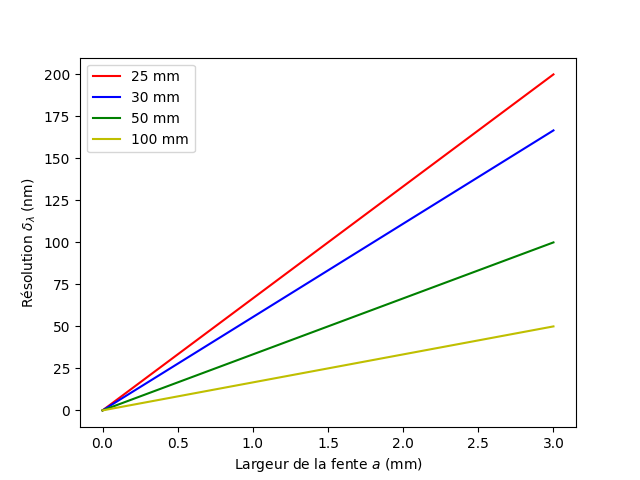
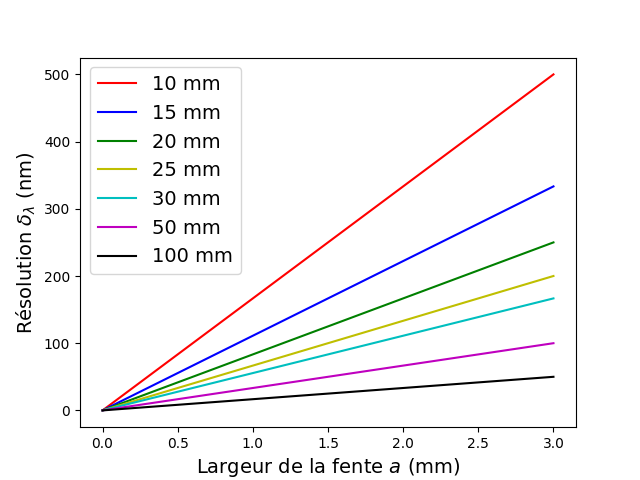
graphique resolution

diff --git a/travail_prep_spectro/rapport_imrad.tex b/travail_prep_spectro/rapport_imrad.tex
@@ -126,7 +126,7 @@ Le système optique du spectromètre est schématisé dans la figure \ref{4f}.
 \begin{figure}[H]
     \centering
     \includegraphics[scale=0.4]{4f.png}
-    \caption{Schéma simplifié du spectromètre avec toutes ses composantes. \label{4f} \cite{procedurier}}
+    \caption{Schéma simplifié du spectromètre avec toutes ses composantes \cite{procedurier}. \label{4f}}
 \end{figure}
 
 Le parcours d'un faisceau passant à travers le spectromètre a été simulé à l'aide 
@@ -213,7 +213,7 @@ soit d'une largeur équivalente ou légèrement inférieure à la largeur de la 
 $x(\lambda_{bleu})-x(\lambda_{rouge})\leq D_{cam}$. On a pu approximer que $x(\lambda)$ correspond au terme de décalage
 de la fonction $rect$ en $x$. Les dimensions de la caméra utilisée pour le spectromètre sont de 1280 x 1024 pixels, chacun étant un carré de
 $5.2\ \mu m$ côté. La zone sensible de la caméra est donc de 6.656 x 5.323 mm \cite{camera}. Par conséquent, il a été nécessaire d'optimiser la relation suivante
-en fonction des lentilles disponibles (25, 30, 50 ou 100 mm de longueur focale):
+en fonction des lentilles disponibles (10, 15, 20, 25, 30, 50 ou 100 mm de longueur focale):
 
 \begin{align*}
     \frac{f_2}{\Lambda}(\lambda_{bleu}-\lambda_{rouge})\leq 6.656\ mm.
@@ -256,7 +256,7 @@ exactement sur l'axe optique ont pu être determinées une fois l'angle d'incide
 
 \section{Résultats \label{resultats}}
 En considérant $\lambda_{bleu}=380\ nm$ et $\lambda_{rouge}=780\ nm$, les largeurs des spectres obtenues sont présentées
-dans le tableau \ref{largeur_spectre}.
+dans le tableau \ref{largeur_spectre}. Le terme $\Delta_D$ correspond à l'écart entre le diamètre de la caméra et le diamètre du spectre.
 \begin{table}[H]
     \caption{Résultats des largeurs de spectres pour des lentilles ayant des longueurs focales
     $f_2$ de 10, 15, 20, 25, 30, 50 ou 100 mm. Le réseau de diffraction a 600 lignes/mm, ce qui correspond à un pas de réseau
@@ -282,8 +282,7 @@ disponibles. Les résultats sont présentés dans la figure \ref{res}.
 \begin{figure}[H]
     \centering
     \includegraphics[scale=0.5]{Resolution.png}
-    \caption{Résolution du spectromètre en fonction de la largeur de la fente $a$ et la longueur focale $f_1$
-    de la lentille}
+    \caption{Résolution du spectromètre en fonction de la largeur de la fente $a$ et de la longueur focale $f_1$}
     \label{res}
 \end{figure}
  La figure \ref{arc-en-ciel} montre la simulation de l'équation pour U2 pour les parametres suivants: 
@@ -310,19 +309,20 @@ La longueur d'onde diffractée sur l'axe optique est de 621 nm.
 \section{Discussion}
 Tel que démontré mathématiquement dans la section \ref{methodes}, l'ordre $n=1$ est optimal pour visualiser la diffraction
 du faisceau entrant. Physiquement, l'ordre $n=0$ n'est pas pertinent pour le contexte d'un spectromètre parce qu'il ne présente que 
-la réflection du faisceau. La diffraction est seulement visible pour les ordres $|n|\leq0$, et ce, avec beaucoup plus d'intensité pour l'ordre $n=1$.
-Par conséquent, l'axe optique à la sortie du réseau de diffraction doit être alignée avec l'ordre $n=1$ et non l'ordre $n=0$, ce qui impose
+la réflection du faisceau. La diffraction est seulement visible pour les ordres $|n|\geq0$, et ce, avec beaucoup plus d'intensité pour l'ordre $n=1$.
+Par conséquent, l'axe optique à la sortie du réseau de diffraction doit être aligné avec l'ordre $n=1$ et non l'ordre $n=0$, ce qui impose
 de positionner le réseau de diffraction à un angle particulier. \textcolor{red}{explication de l'angle d'incidence et de sortie}.
 
 En évaluant les résultats des longueurs focales $f_2$ et en considérant la condition initiale
 $x(\lambda_{bleu})-x(\lambda_{rouge})\leq 6.656$ mm, les seules lentilles acceptables sont celles
 ayant une longueur focale inférieure ou égale à 25 mm. En raison des dimensions physiques des composantes et de
 la position du capteur de la caméra, les lentilles ayant des longueurs focales inférieures à 25 mm ne peuvent pas être utilisées.
-Ceci élimine donc toutes les lentilles sauf celle de $f_2=25$ mm, ce qui limite le choix à celle-ci.
+Ceci élimine donc toutes les lentilles sauf celle de longueur focale $f_2=25$ mm, limitant ainsi le choix à celle-ci.
 
 Pour ce qui est du choix de la longueur focale de la première lentille $f_1$, la relation inversement proportionnelle
 entre la résolution et $f_1$ ($\Lambda a/f_1$) permet de déterminer qu'une longueur focale plus grande serait optimale. Cependant,
-les limites imposées par l'impression 3D élimine le choix de $f_1=100$ mm. Une longueur focale $f_1$ de 50 mm est donc choisie.
+les limites imposées par l'impression 3D élimine le choix de $f_1=100$ mm. La deuxième longueur focale la plus grande, soit $f_1=50$ mm,
+est donc choisie.
 
 La simulation de la modélisation mathématique donne un résultat satisfaisant. En effet, on remarque que tout le spectre
 de la lumière visible est présent sur la caméra. Il est cependant important de mentionner qu'il a fallu ajuster la
